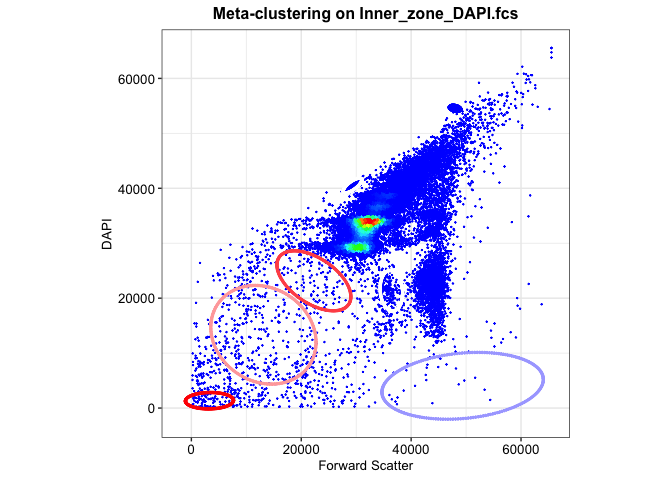
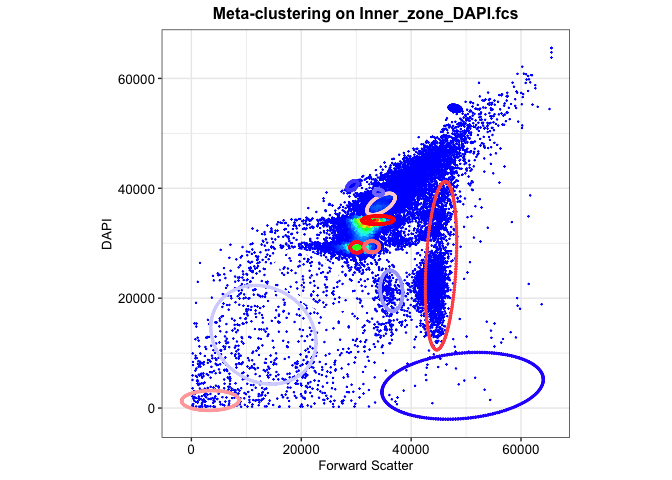
correct meta-clustering results

diff --git a/workflow/02a-flowEMMi-for-Z-project.md b/workflow/02a-flowEMMi-for-Z-project.md
@@ -1,6 +1,6 @@
 02a-flowEMMi for-Z-project
 ================
-Compiled at 2023-10-31 01:29:23 UTC
+Compiled at 2023-11-05 19:03:09 UTC
 
 ``` r
 here::i_am(paste0(params$name, ".Rmd"), uuid = "11675b32-9913-442e-9b4a-03cdc39afb65")
@@ -106,24 +106,14 @@ for (i in 1:5){
   data <- DAPI[[i]]
   plots <- plotDensityAndEllipses(fcsData = data, ch1="PMT.1", ch2="PMT.9", alpha=0.9,
                             logScale = F, results = gating_DAPI[[i]],
-                            title = data_name, plotRelevance = T,
+                            title = data_name, plotRelevance = T,gridsize = 1000,
                             ellipseDotSize = 0.5, axis_size=10, axisLabeling_size=10,
                             xlab = "Forward Scatter", ylab = "DAPI", font = "Arial")
   gating_DAPI_plot[[i]] <- plots$plot
 }
 ```
 
-    ## Warning in KernSmooth::bkde2D(x, bandwidth = bandwidth, gridsize = nbin, :
-    ## Binning grid too coarse for current (small) bandwidth: consider increasing
-    ## 'gridsize'
-
-![](02a-flowEMMi-for-Z-project_files/figure-gfm/plot-DAPI-1.png)<!-- -->
-
-    ## Warning in KernSmooth::bkde2D(x, bandwidth = bandwidth, gridsize = nbin, :
-    ## Binning grid too coarse for current (small) bandwidth: consider increasing
-    ## 'gridsize'
-
-![](02a-flowEMMi-for-Z-project_files/figure-gfm/plot-DAPI-2.png)<!-- -->![](02a-flowEMMi-for-Z-project_files/figure-gfm/plot-DAPI-3.png)<!-- -->![](02a-flowEMMi-for-Z-project_files/figure-gfm/plot-DAPI-4.png)<!-- -->![](02a-flowEMMi-for-Z-project_files/figure-gfm/plot-DAPI-5.png)<!-- -->
+![](02a-flowEMMi-for-Z-project_files/figure-gfm/plot-DAPI-1.png)<!-- -->![](02a-flowEMMi-for-Z-project_files/figure-gfm/plot-DAPI-2.png)<!-- -->![](02a-flowEMMi-for-Z-project_files/figure-gfm/plot-DAPI-3.png)<!-- -->![](02a-flowEMMi-for-Z-project_files/figure-gfm/plot-DAPI-4.png)<!-- -->![](02a-flowEMMi-for-Z-project_files/figure-gfm/plot-DAPI-5.png)<!-- -->
 
 In the above graphs, the ellipses are colored according to their cluster
 probability, high probability in red, medium probability in white, low
@@ -139,25 +129,24 @@ ellipses.
 #PMT.1--Forward Scatter--col11
 #PMT.9--Fluor. DAPI--col27
 
-all_data <- DAPI[[1]]@exprs[,c(11,27)]
 all_gate <- gating_DAPI[[1]]
+all_gate@mu <- all_gate@mu[,-1]
+all_gate@sigma <- all_gate@sigma[-1]
+all_gate@clusterProbs <- all_gate@clusterProbs[-1]
 
-  for (i in 2:5){
+for (i in 2:5){
     mu <- gating_DAPI[[i]]@mu[,-1]
     sigma <- gating_DAPI[[i]]@sigma[-1]
     prob <- gating_DAPI[[i]]@clusterProbs[-1]
     all_gate@mu <- cbind(all_gate@mu,mu)
     all_gate@sigma <- c(all_gate@sigma,sigma)
     all_gate@clusterProbs <- c(all_gate@clusterProbs,prob)
-    
-    data <- DAPI[[i]]@exprs[,c(11,27)]
-    all_data <- rbind(all_data,data)
 }
 
 Gating_DAPI_meta <- removeOverlaps(em=all_gate, alpha=0.9
                                   , mergeWhenCenter = FALSE
                                   , mergeWhenTwoCenters = FALSE
-                                  , thresholdForDeletion = 0.2
+                                  , thresholdForDeletion = 0.9
                                   , threshold = 0.9
                                   , shrinkingFunction=shrinkEllipses
                                   , considerWeights=TRUE
@@ -179,24 +168,14 @@ for (i in 1:5){
   plots <- plotDensityAndEllipses(fcsData = data, ch1="PMT.1", ch2="PMT.9", alpha=0.9,
                             logScale = F, results = Gating_DAPI_meta,
                             title = paste0("Meta-clustering on ",data_name), 
-                            plotRelevance = T,
+                            plotRelevance = T,gridsize = 1000,
                             ellipseDotSize = 0.5, axis_size=10, axisLabeling_size=10,
                             xlab = "Forward Scatter", ylab = "DAPI", font = "Arial")
   gating_DAPI_meta_plot[[i]] <- plots$plot
 }
 ```
 
-    ## Warning in KernSmooth::bkde2D(x, bandwidth = bandwidth, gridsize = nbin, :
-    ## Binning grid too coarse for current (small) bandwidth: consider increasing
-    ## 'gridsize'
-
-![](02a-flowEMMi-for-Z-project_files/figure-gfm/meta-DAPI-plot-1.png)<!-- -->
-
-    ## Warning in KernSmooth::bkde2D(x, bandwidth = bandwidth, gridsize = nbin, :
-    ## Binning grid too coarse for current (small) bandwidth: consider increasing
-    ## 'gridsize'
-
-![](02a-flowEMMi-for-Z-project_files/figure-gfm/meta-DAPI-plot-2.png)<!-- -->![](02a-flowEMMi-for-Z-project_files/figure-gfm/meta-DAPI-plot-3.png)<!-- -->![](02a-flowEMMi-for-Z-project_files/figure-gfm/meta-DAPI-plot-4.png)<!-- -->![](02a-flowEMMi-for-Z-project_files/figure-gfm/meta-DAPI-plot-5.png)<!-- -->
+![](02a-flowEMMi-for-Z-project_files/figure-gfm/meta-DAPI-plot-1.png)<!-- -->![](02a-flowEMMi-for-Z-project_files/figure-gfm/meta-DAPI-plot-2.png)<!-- -->![](02a-flowEMMi-for-Z-project_files/figure-gfm/meta-DAPI-plot-3.png)<!-- -->![](02a-flowEMMi-for-Z-project_files/figure-gfm/meta-DAPI-plot-4.png)<!-- -->![](02a-flowEMMi-for-Z-project_files/figure-gfm/meta-DAPI-plot-5.png)<!-- -->
 
 ## Mahalanobis distance function with flowEMMi
 
@@ -246,7 +225,7 @@ flowEMMi_mahalanobis <- function(data,data_name,gating_data,alpha){
   
   maha_data2 <- cbind(data,maha)
   
-  test <- table(maha[,ncol(maha)]) %>% as.data.frame()
+  test <- base::table(maha[,ncol(maha)]) %>% as.data.frame()
   coordinates <- sprintf("(%.2f,%.2f)",mu[1,2:ncol(mu)],mu[2,2:ncol(mu)])
   
   #Area of Ellipse
@@ -299,7 +278,7 @@ ellipses for each cluster.
 ``` r
 # FSC vs. DAPI
 flowemmi_DAPI <- list()
-flowemmi_meta_DAPI <- list()
+#flowemmi_meta_DAPI <- list()
 
 for (i in 1:5){
   data_name <- names(DAPI)[i]
@@ -307,9 +286,8 @@ for (i in 1:5){
   gating_data <- gating_DAPI[[i]]
   flowemmi_DAPI[[data_name]] <-flowEMMi_mahalanobis(data,data_name,gating_data,0.9)
   
-  dname <- paste0("Meta_",data_name)
-  flowemmi_meta_DAPI[[data_name]] <- flowEMMi_mahalanobis(data,dname,Gating_DAPI_meta,0.9)
-  
+  #dname <- paste0("Meta_",data_name)
+  #flowemmi_meta_DAPI[[data_name]] <- flowEMMi_mahalanobis(data,dname,Gating_DAPI_meta,0.9)
   
   # visualization
   table <- flowemmi_DAPI[[data_name]]$table_info %>% 
@@ -408,7 +386,7 @@ flowroc <- function(data,gating_data,CI){
       else {data1$Cluster[cell] <- which.min(rv)}
     }
   
-    result <- table(data1$Cluster) %>% as.data.frame()
+    result <- base::table(data1$Cluster) %>% as.data.frame()
     sum1 <- sum(result$Freq)
   
     sigma <- gating_data@sigma
@@ -522,7 +500,7 @@ for (i in 1:3){
   point[[i]] <- ggplot(roc$raw.point,aes(x=volume,y=cell,color=location))+
     geom_line()+labs(x="volume",y="cell")+
     coord_cartesian(ylim = c(0,60000),xlim=c(0,2e9))+
-    scale_x_continuous(breaks = seq(0,2e9,by=1e9),labels = c(0,1e9,2e9))
+    scale_x_continuous(breaks = seq(0,2e9,by=1e9),labels = c(0,1e9,2e9))+
     theme_minimal()
   
   point[[i+3]] <- ggplot(roc$regional.scaled,aes(x=volume,y=cell,color=location))+
@@ -546,6 +524,7 @@ annotate_figure(complete,
 
 ``` r
 location <- c("Inner_zone","Middle_zone","Outer_zone","Surrounding","Whole_colony")
+scale.type <- c("raw.point")
 point <- list()
 
 p1 <- plot_point(roc_19)
@@ -553,18 +532,22 @@ p2 <- plot_point(roc_meta_19)
 
 for (i in 1:5){
   var <- location[i]
+  
   data1 <- p1$raw.point %>% dplyr::filter(location==var)
   data2 <- p2$raw.point %>% dplyr::filter(location==var)
   
-  data1$type <- "gating"
-  data2$type <- "meta-clustering"
+  data1$Type <- "gating"
+  data2$Type <- "meta-clustering"
   
   data <- rbind(data1,data2)
   
-  point[[i]] <- ggplot(data,aes(x=volume,y=cell,color=type))+
+  point[[i]] <- ggplot(data,aes(x=volume,y=cell,color=Type))+
     geom_line()+labs(x="volume",y="cell",title=var)+
+    coord_cartesian(ylim = c(0,65535),xlim=c(0,1.5e9))+
+    scale_x_continuous(breaks = seq(0,1.5e9,by=1.5e9),labels = c(0,1.5e9))+
     theme_minimal()
 }
+  
 
 
 complete <- ggarrange(plotlist = point,
@@ -634,19 +617,22 @@ for (j in 1:5){
   }
   
   point[[i]] <- ggplot(plot.points, aes(x = volume, y = cell, color = method)) +
-    geom_line() + coord_cartesian(xlim=c(0,5e9),ylim=c(0,50000)) +
-    scale_x_continuous(breaks = seq(0,4e9,by=2e9),labels = c(0,2e9,4e9))+
+    geom_line() + 
+    coord_cartesian(xlim=c(0,5e9),ylim=c(0,80000)) +
+    scale_x_continuous(breaks = seq(0,4e9,by=4e9),labels = c(0,4e9))+
     labs(x = "volume", y = "cell") +
     theme_minimal()
   
   point[[i+5]] <- ggplot(plot.scale, aes(x = volume, y = cell, color = method)) +
     geom_line() +
     labs(x = "volume", y = "cell") +
+    scale_x_continuous(breaks = seq(0,1,by=0.5),labels = c(0,0.5,1))+
     theme_minimal()
   
   point[[i+10]] <- ggplot(plot.scale.points, aes(x = volume, y = cell, color = method)) +
     geom_line() +
     labs(x = "volume", y = "cell") +
+    scale_x_continuous(breaks = seq(0,1,by=0.5),labels = c(0,0.5,1))+
     theme_minimal()
   }
 }
